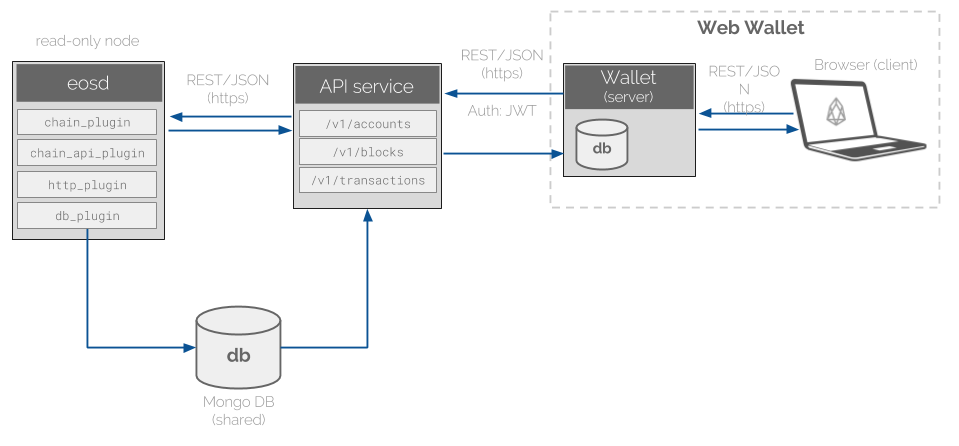
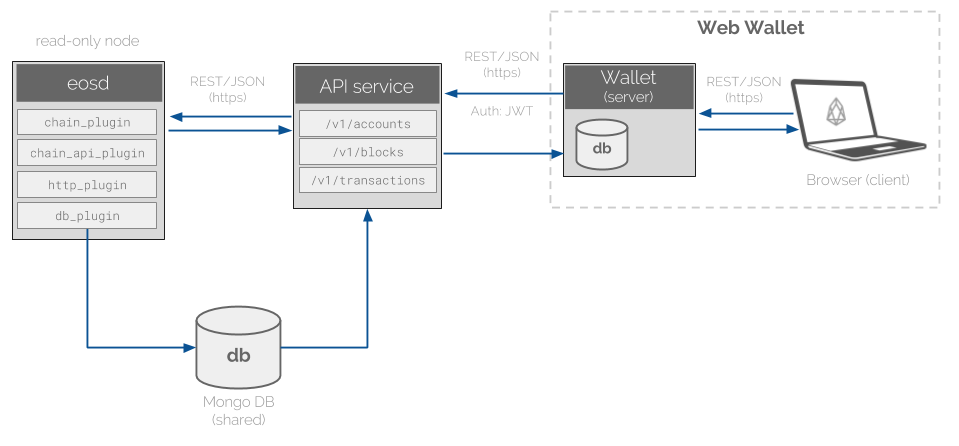
docs: updates for images

diff --git a/README.md b/README.md
@@ -124,3 +124,7 @@ $ yarn
 $ yarn build
 $ yarn start
 ```
+
+With the wallet running, the interactions in the environment operate as in the following diagram:
+
+![Wallet Annotated](docs/Web-Wallet-EOS-Annotated-Diagram.png?raw=true)
